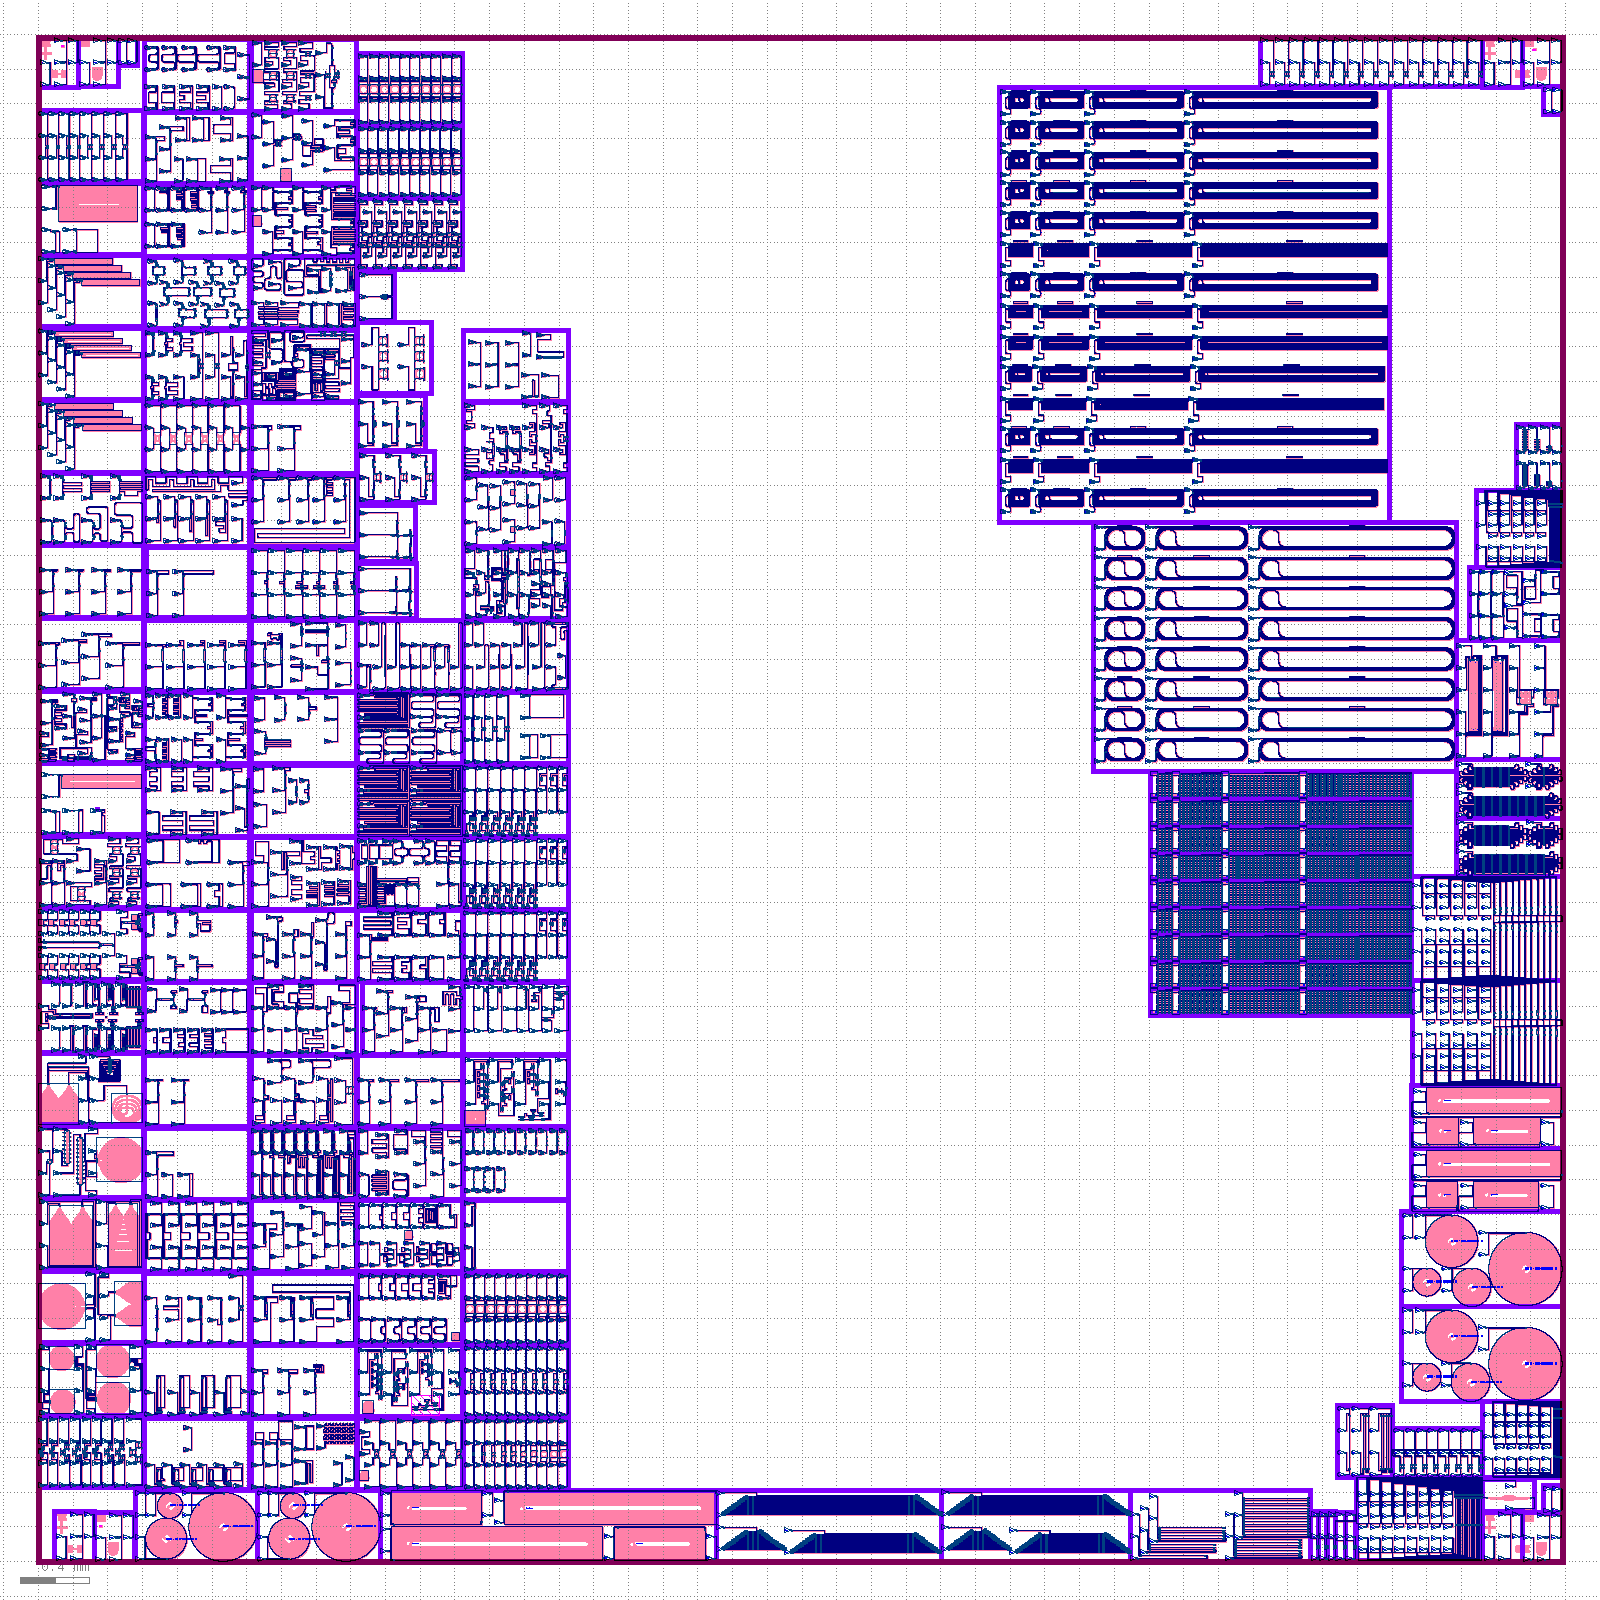
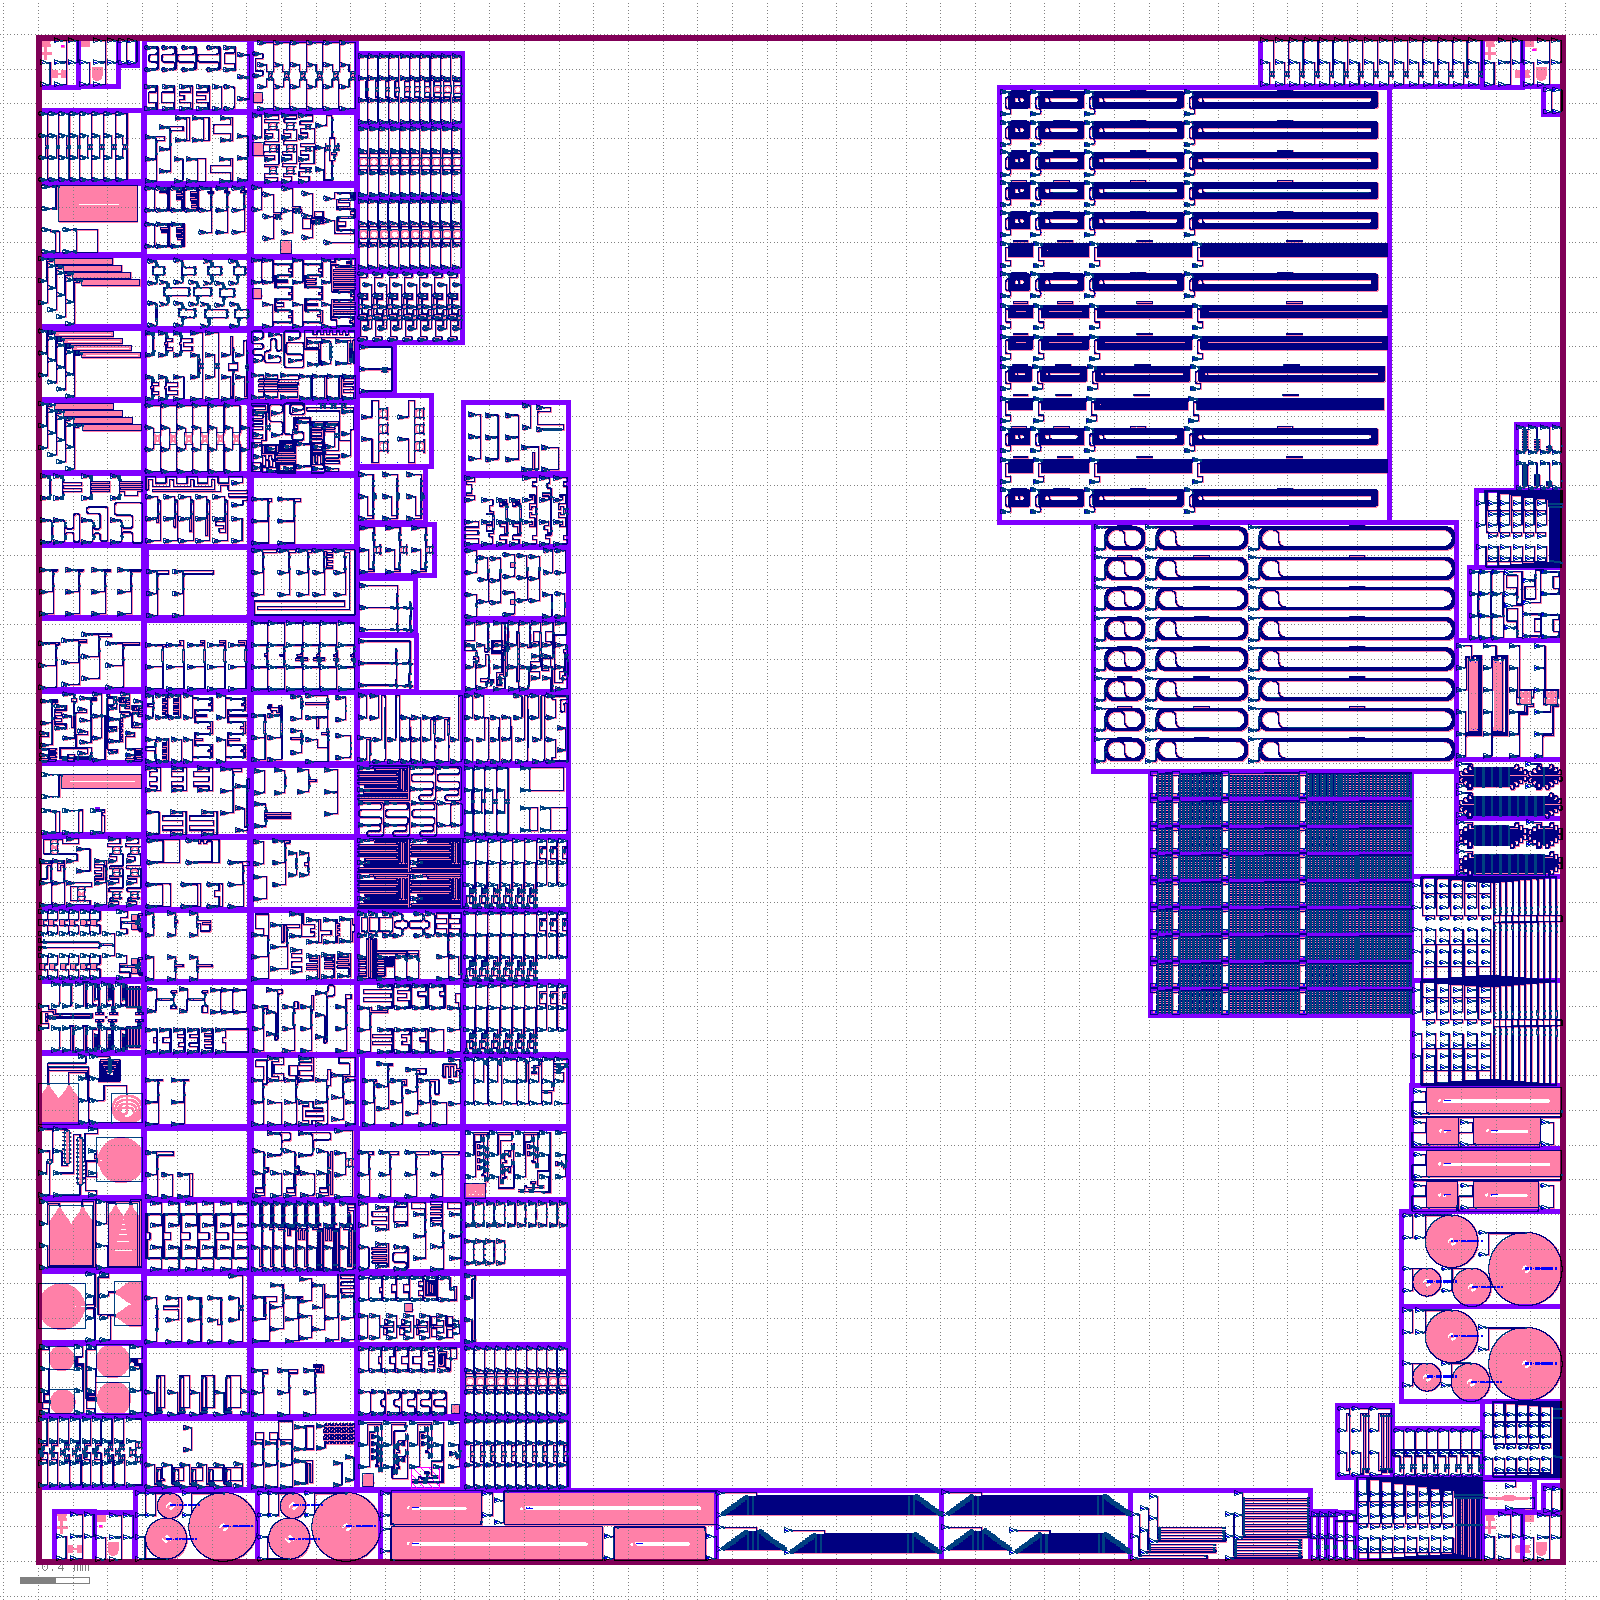
Aggregation layout: https://github.com/SiEPIC/openEBL-2026-05/actions/runs/25943831535/artifacts/7027443817

Changed region(s): [[0.1562, 0.0, 0.375, 0.9375]]

diff --git a/README.md b/README.md
@@ -91,5 +91,5 @@ Will be added here.
 
 Click on the following link to download the EBeam.oas merged layout file:
 <!-- start-link -->
-https://github.com/SiEPIC/openEBL-2026-05/actions/runs/25941865304/artifacts/7026703945
+https://github.com/SiEPIC/openEBL-2026-05/actions/runs/25943831535/artifacts/7027443817
 <!-- end-link -->